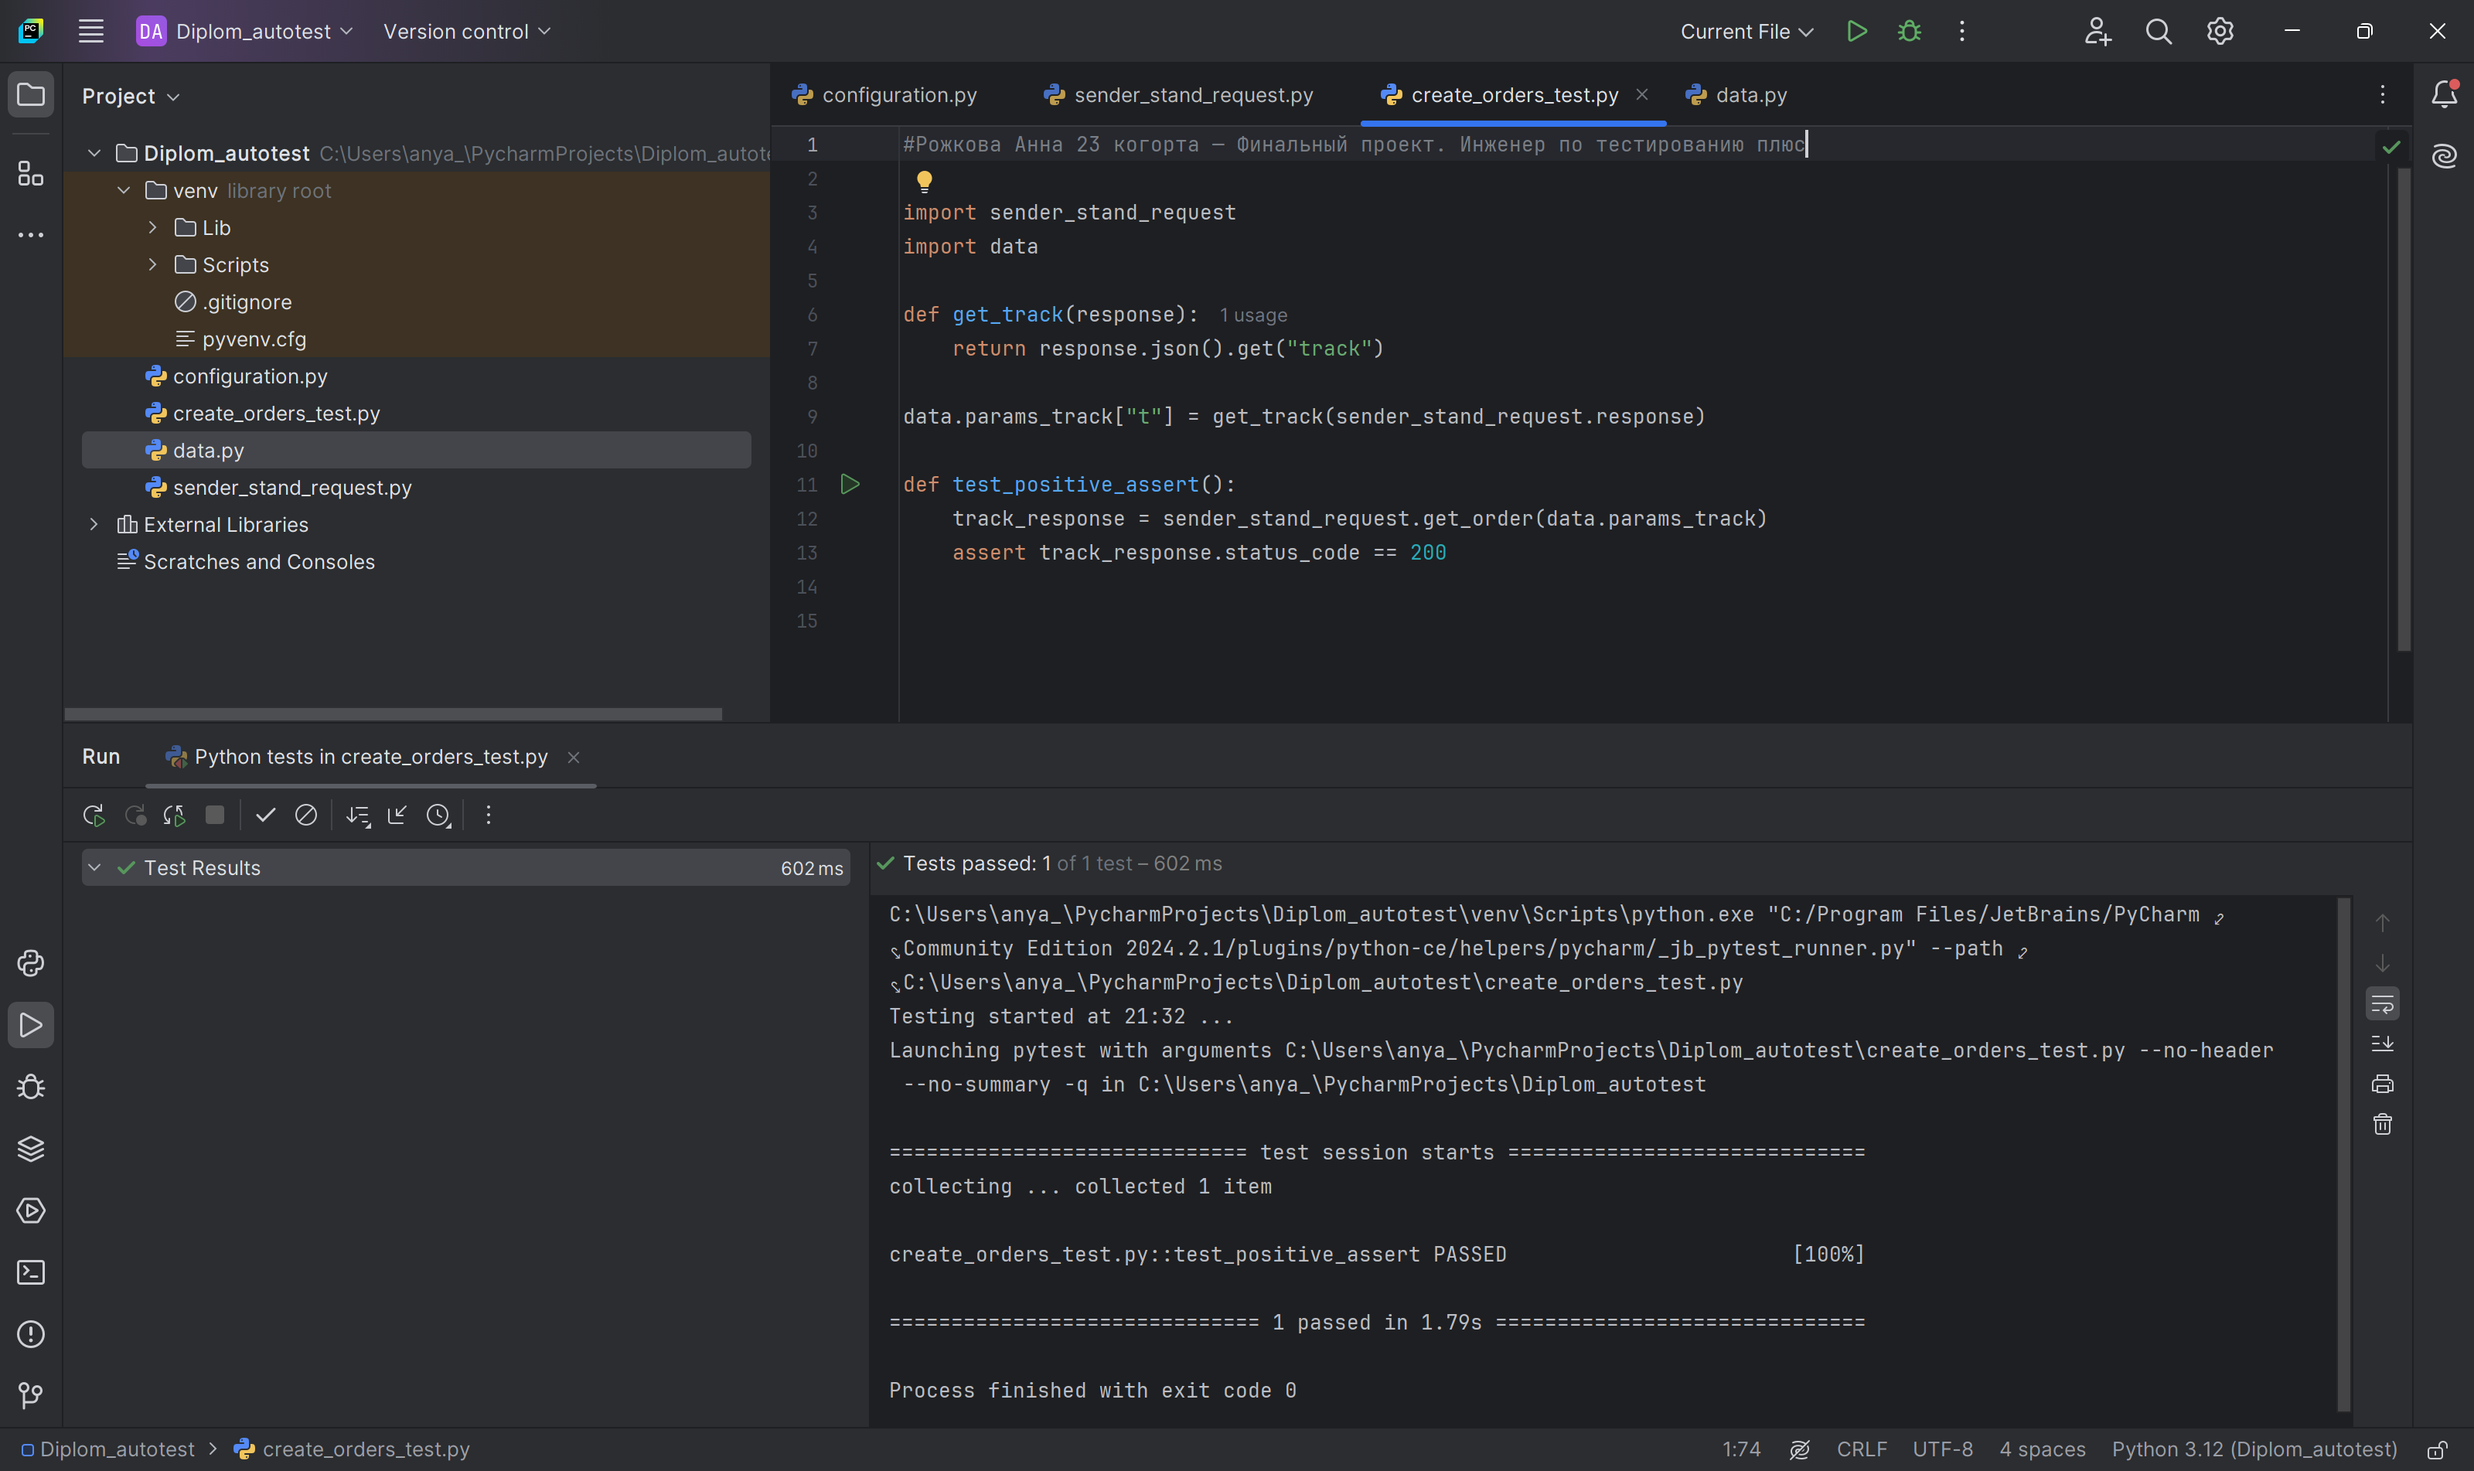
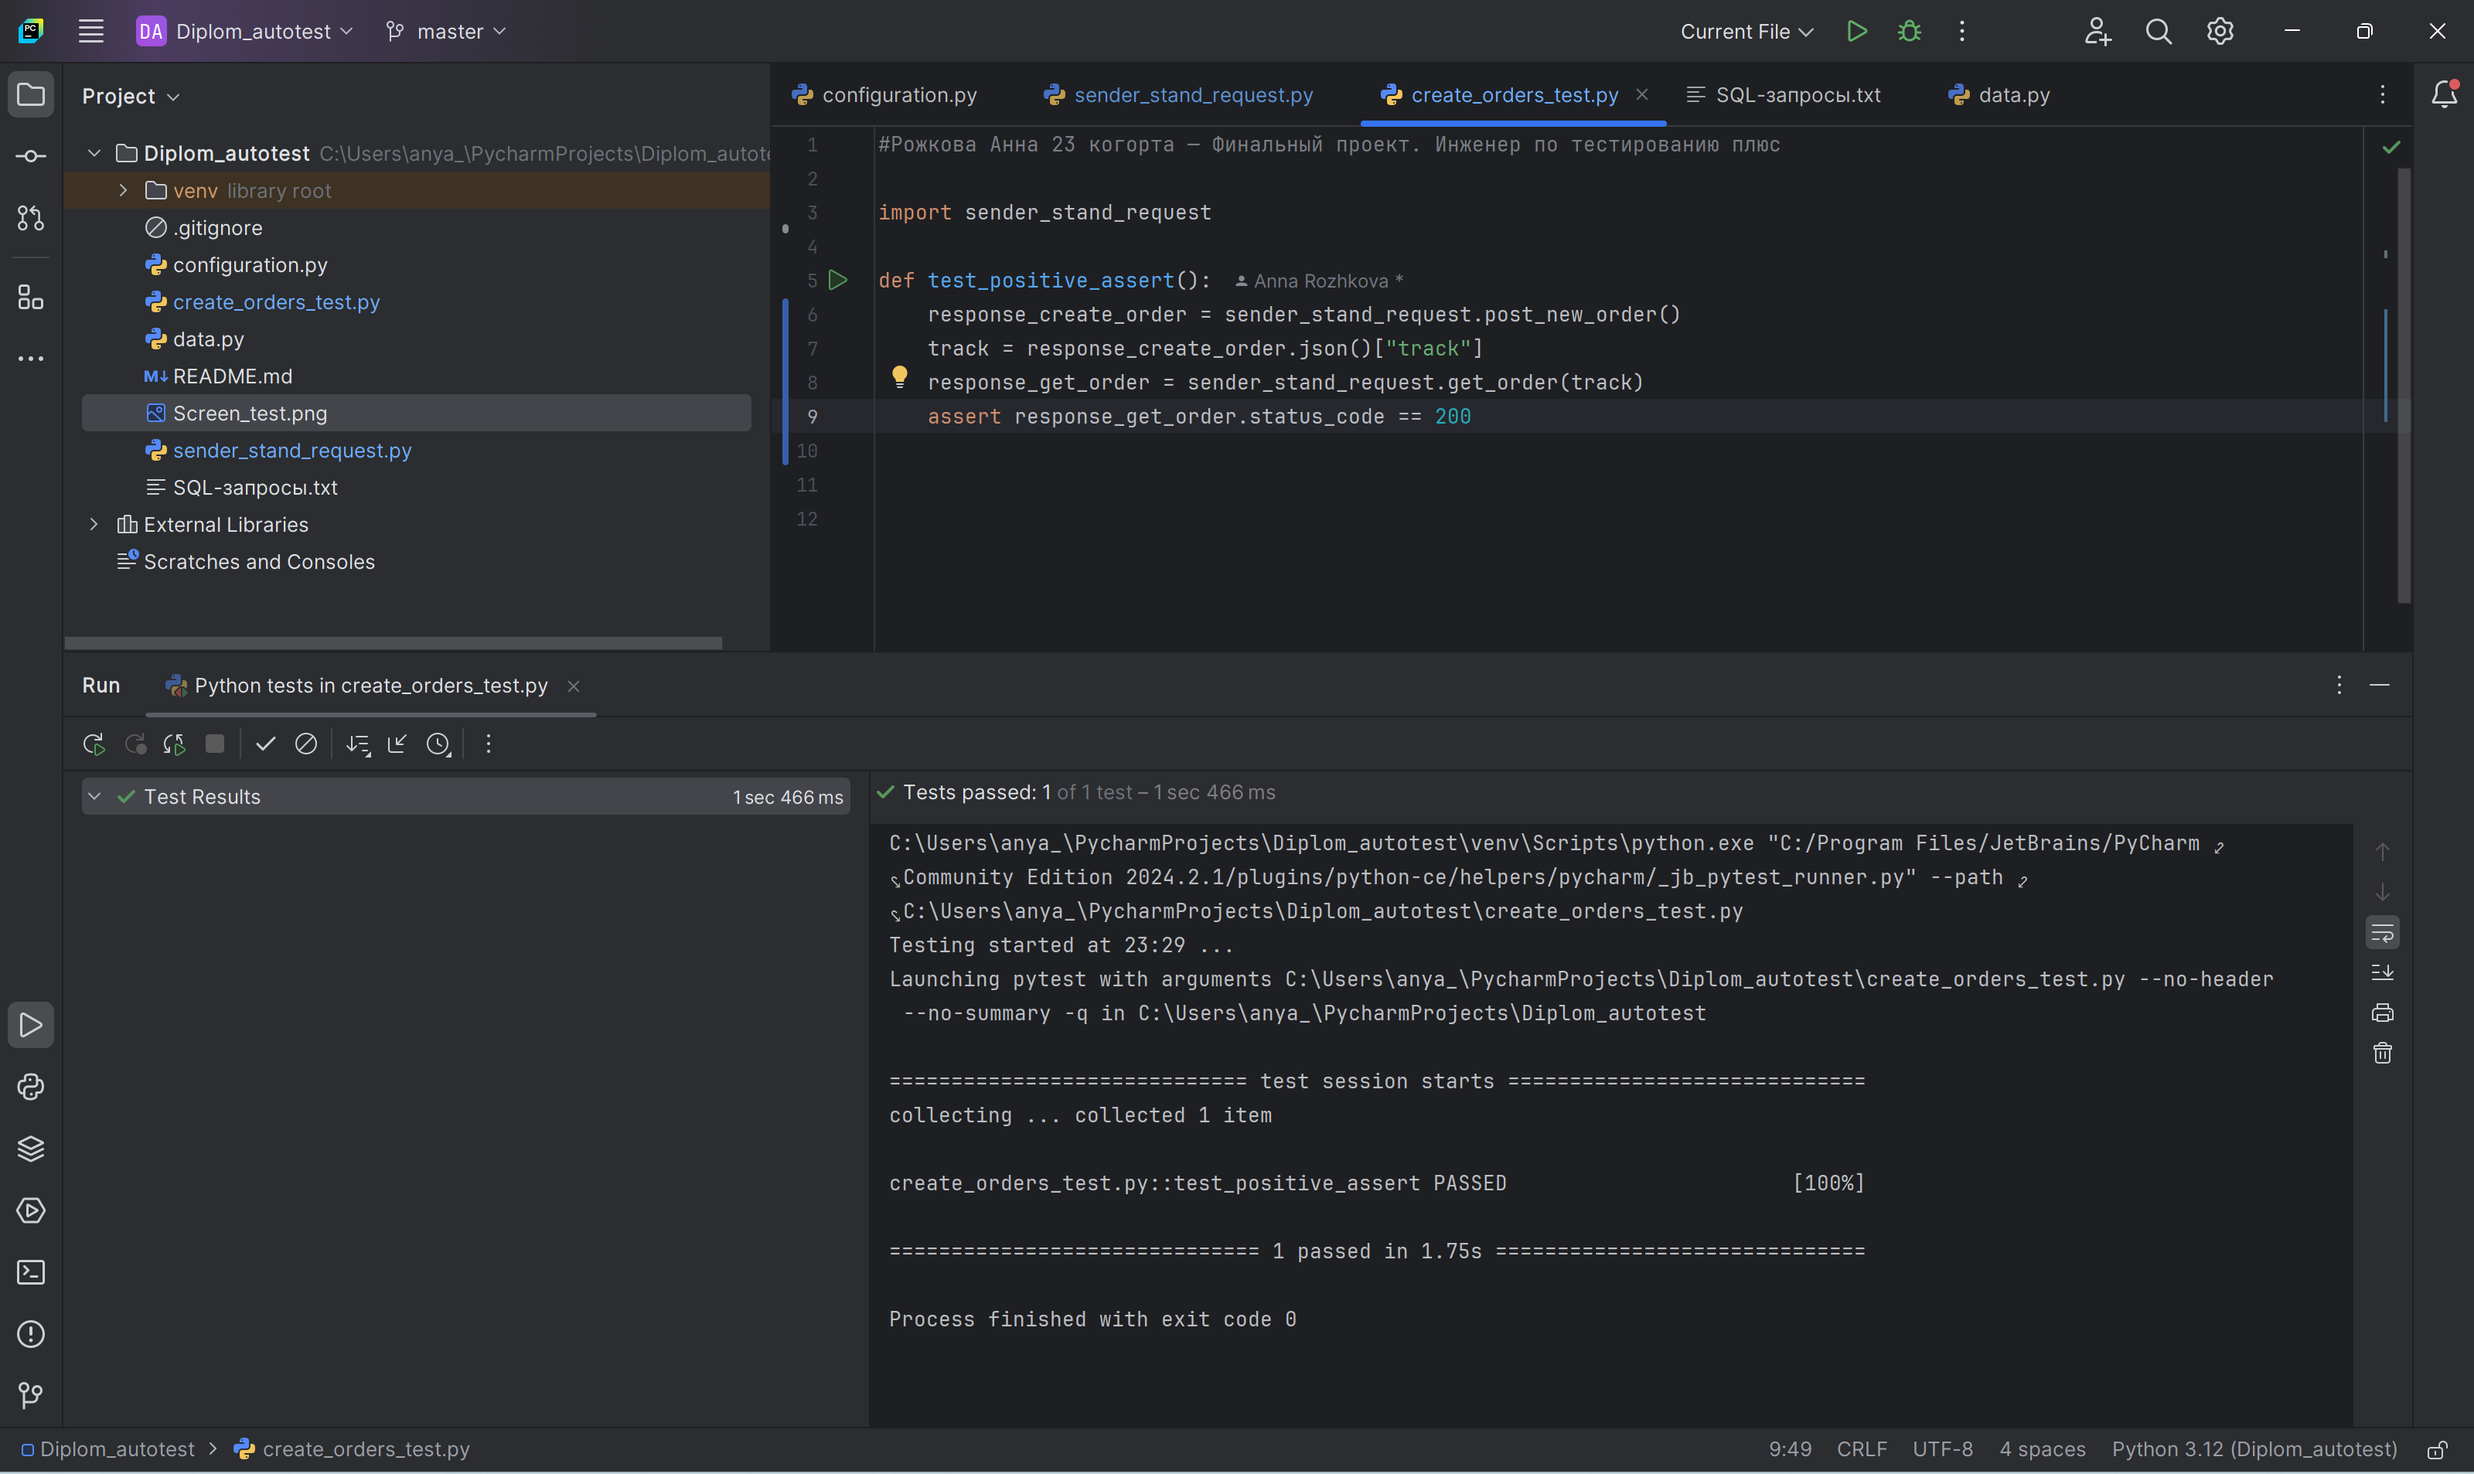
корректировка

diff --git a/create_orders_test.py b/create_orders_test.py
@@ -1,14 +1,11 @@
 #Рожкова Анна 23 когорта — Финальный проект. Инженер по тестированию плюс
 
 import sender_stand_request
-import data
-
-def get_track(response):
-    return response.json().get("track")
-
-data.params_track["t"] = get_track(sender_stand_request.response)
 
 def test_positive_assert():
-    track_response = sender_stand_request.get_order(data.params_track)
-    assert track_response.status_code == 200
+    response_create_order = sender_stand_request.post_new_order()
+    track = response_create_order.json()["track"]
+    response_get_order = sender_stand_request.get_order(track)
+    assert response_get_order.status_code == 200
+
 

diff --git a/sender_stand_request.py b/sender_stand_request.py
@@ -2,12 +2,10 @@ import configuration
 import requests
 import data
 
-def post_new_order(body):
+def post_new_order():
     return requests.post(configuration.URL_SERVICE + configuration.CREATE_ORDER,
-                         json = body,
-                         headers = data.headers)
-response = post_new_order(data.order_body)
+                         json = data.order_body)
 
-def get_order(track_number):
+def get_order(track):
     return requests.get(configuration.URL_SERVICE + configuration.GET_ORDER,
-                        params = track_number)
+                        params={"t": track})

diff --git a/data.py b/data.py
@@ -16,6 +16,3 @@ order_body = {
     ]
 }
 
-params_track = {
-    "t": ""
-}
